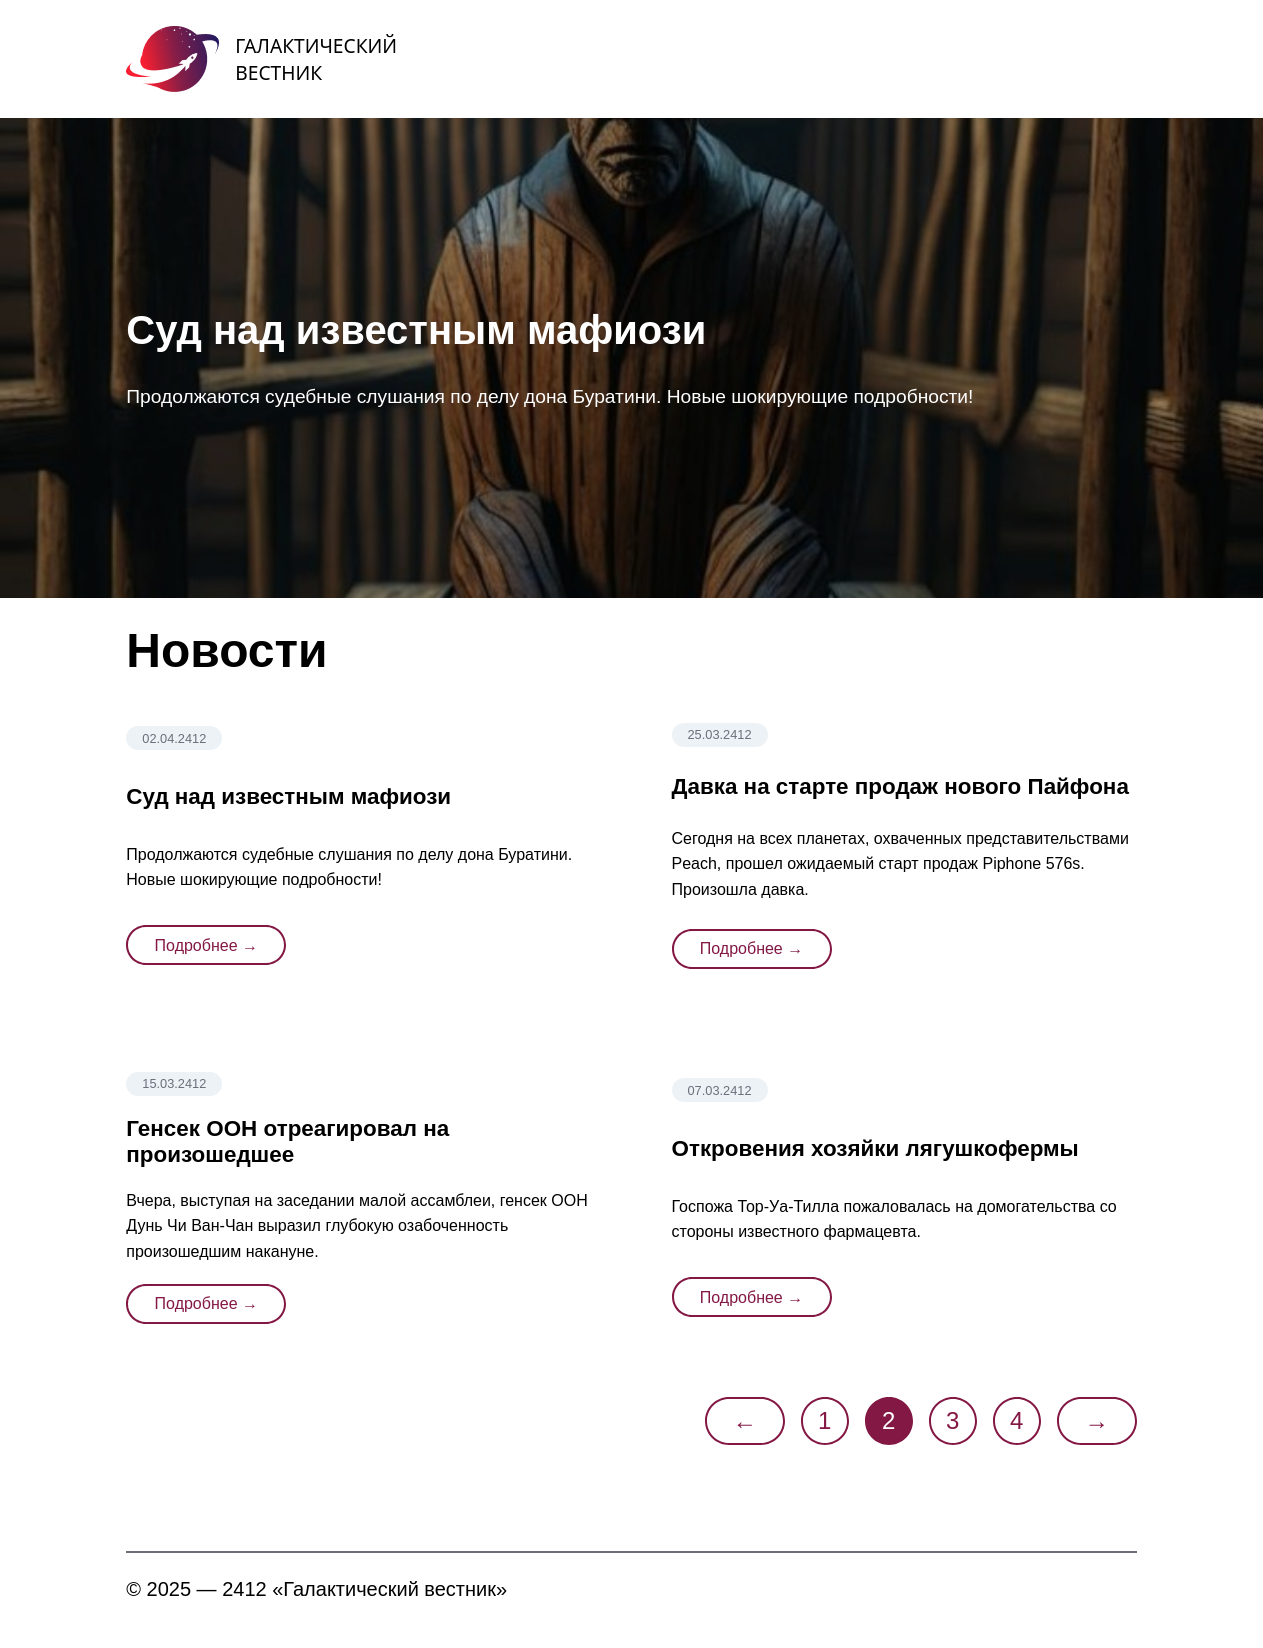
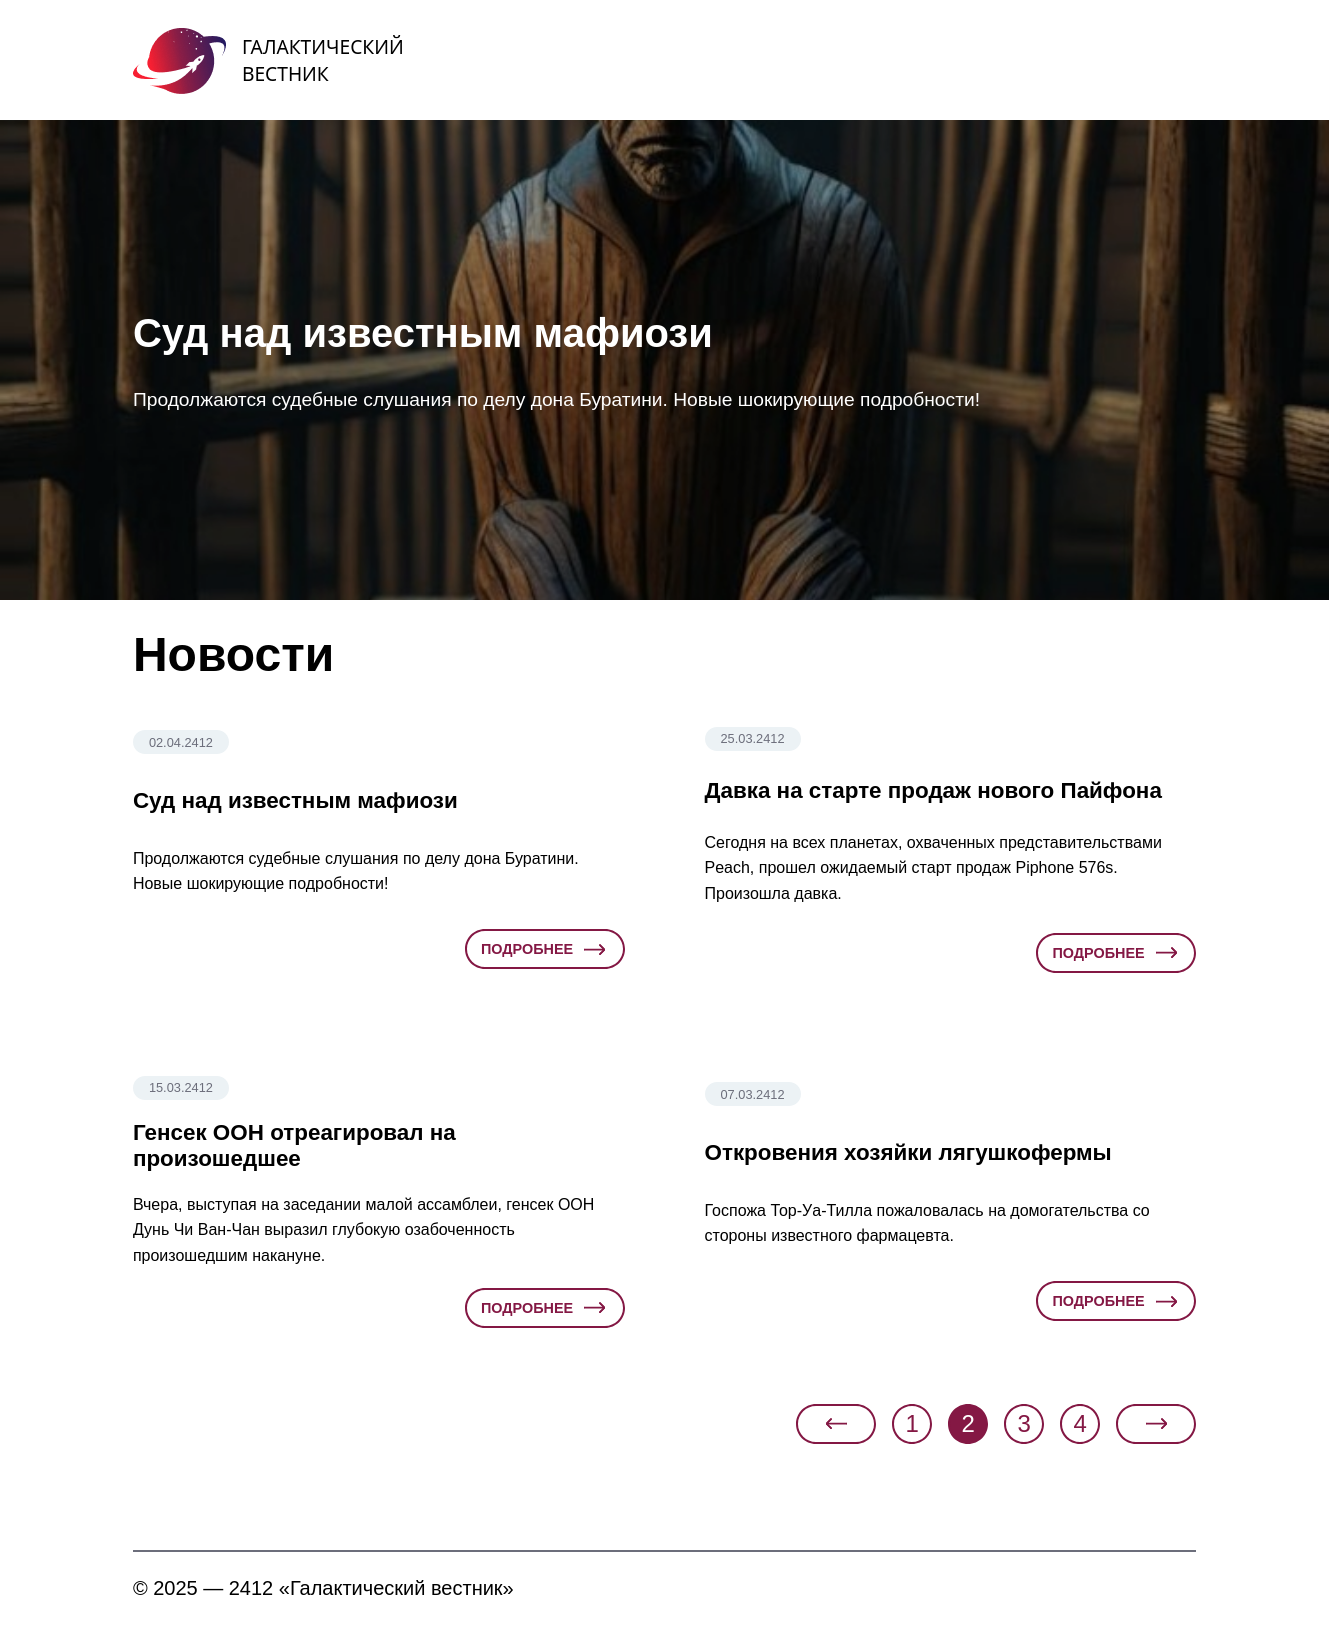
update arrows; update font sizes; update screenshots; made other minor changes;

diff --git a/assets/news.css b/assets/news.css
@@ -30,6 +30,10 @@
         color: white;
     }
 
+    .arrow {
+        color: white;
+    }
+
     .info {
         color: var(--main-color);
     }
@@ -37,9 +41,9 @@
 
 .page_num:hover {
     border: 2px solid var(--main-color);
-    width: 3rem;
-    height: 3rem;
-    border-radius: 3rem;
+    width: 2.5rem;
+    height: 2.5rem;
+    border-radius: 2.5rem;
     text-align: center;
     display: flex;
     align-items: center;
@@ -68,9 +72,9 @@
 .page_num {
     color: var(--main-color);
     border: 2px solid var(--main-color);
-    width: 3rem;
-    height: 3rem;
-    border-radius: 3rem;
+    width: 2.5rem;
+    height: 2.5rem;
+    border-radius: 2.5rem;
     text-align: center;
     display: flex;
     align-items: center;
@@ -83,8 +87,8 @@
     color: var(--main-color);
     border: 2px solid var(--main-color);
     width: 5rem;
-    height: 3rem;
-    border-radius: 3rem;
+    height: 2.5rem;
+    border-radius: 2.5rem;
     text-align: center;
     display: flex;
     align-items: center;
@@ -98,8 +102,8 @@
     background-color: var(--main-color);
     border: 2px solid var(--main-color);
     width: 5rem;
-    height: 3rem;
-    border-radius: 3rem;
+    height: 2.5rem;
+    border-radius: 2.5rem;
     text-align: center;
     display: flex;
     align-items: center;
@@ -109,9 +113,9 @@
 
 .current_page {
     border: 2px solid var(--main-color);
-    width: 3rem;
-    height: 3rem;
-    border-radius: 3rem;
+    width: 2.5rem;
+    height: 2.5rem;
+    border-radius: 2.5rem;
     text-align: center;
     display: flex;
     align-items: center;
@@ -130,8 +134,10 @@
     display: flex;
     justify-content: center;
     align-self: end;
-    flex-direction: column;
     align-items: center;
+    gap: 0.5rem;
+    font-size: 0.9rem;
+    font-weight: 600;
 
     transition: all 1s ease;
 }

diff --git a/assets/post.css b/assets/post.css
@@ -93,14 +93,17 @@
 .back_button {
     color: var(--main-color);
     border: 2px solid var(--main-color);
-    width: 15rem;
-    height: 3rem;
-    border-radius: 3rem;
+    width: 14rem;
+    height: 2.5rem;
+    border-radius: 2.5rem;
     text-align: center;
     display: flex;
     align-items: center;
     justify-content: center;
     margin-top: 1rem;
+    gap: 0.5rem;
+    font-size: 0.9rem;
+    font-weight: 600;
 
     transition: all 1s ease;
 }
@@ -109,8 +112,8 @@
     color: white;
     background-color: var(--main-color);
     border: 2px solid var(--main-color);
-    width: 15rem;
-    height: 3rem;
+    width: 14rem;
+    height: 2.5rem;
     border-radius: 3rem;
     text-align: center;
     display: flex;

diff --git a/assets/styles.css b/assets/styles.css
@@ -90,3 +90,13 @@ html, body {
 .title {
     font-size: 1.2rem;
 }
+
+.arrow {
+    scale: 0.8;
+
+    transition: all 1s ease;
+}
+
+.left {
+    transform: rotate(180deg);
+}

diff --git a/views/news.php b/views/news.php
@@ -11,7 +11,8 @@
     <?php include 'templates/header.php'; ?>
     <?php if (!empty($news)): ?>
         <?php $first = $news[0]; ?>
-        <div class="slider" style="background-image: linear-gradient(rgba(0, 0, 0, 0.3), rgba(0, 0, 0, 0.3)), url('/images/<?= $first['image'] ?>')">
+        <div class="slider"
+             style="background-image: linear-gradient(rgba(0, 0, 0, 0.3), rgba(0, 0, 0, 0.3)), url('/images/<?= $first['image'] ?>')">
 
             <div class="post_slider">
                 <div class="post_title">
@@ -33,9 +34,15 @@
                     <div class="date"><?= date('d.m.Y', strtotime($item['date'])) ?></div>
                     <div class="info"><?= $item['title'] ?></div>
                     <div class="announce"><?= $item['announce'] ?></div>
-                    <div class="info_container">
-                        <a class="more_info" href="/news/<?= $item['id'] ?>">Подробнее →</a>
-                    </div>
+                    <a class="more_info" href="/news/<?= $item['id'] ?>">
+                        <div>ПОДРОБНЕЕ</div>
+                        <svg class="arrow" xmlns="http://www.w3.org/2000/svg" width="27.004" height="13.322"
+                             fill="currentColor">
+                            <path d="M1.02 7.64 1 7.66c-.56 0-1-.44-1-1s.44-1 1-1l.02.02v1.96Zm23.56-.98-4.95-4.95a.99.99 0 0 1 0-1.42c.4-.39 1.02-.39 1.42 0l5.65 5.66c.4.39.4 1.02 0 1.41l-5.65 5.66c-.4.4-1.02.4-1.42 0-.4-.4-.4-1.02 0-1.41l4.95-4.95Z"></path>
+                            <path fill-rule="evenodd"
+                                  d="m23.58 5.66-3.95-3.95a.99.99 0 0 1 0-1.42c.4-.39 1.02-.39 1.42 0l5.65 5.66c.4.39.4 1.02 0 1.41l-5.65 5.66c-.4.4-1.02.4-1.42 0-.4-.4-.4-1.02 0-1.41l3.95-3.95H1c-.56 0-1-.44-1-1s.44-1 1-1h22.58Z"></path>
+                        </svg>
+                    </a>
                 </div>
             <?php endforeach; ?>
         </div>
@@ -43,7 +50,14 @@
     <nav class="pagination">
         <div class="pages">
             <?php if ($current_page > 1): ?>
-                <a class="jump_to_page" href="/?page=1">←</a>
+                <a class="jump_to_page" href="/?page=1">
+                    <svg class="arrow left" xmlns="http://www.w3.org/2000/svg" width="27.004" height="13.322"
+                         fill="currentColor">
+                        <path d="M1.02 7.64 1 7.66c-.56 0-1-.44-1-1s.44-1 1-1l.02.02v1.96Zm23.56-.98-4.95-4.95a.99.99 0 0 1 0-1.42c.4-.39 1.02-.39 1.42 0l5.65 5.66c.4.39.4 1.02 0 1.41l-5.65 5.66c-.4.4-1.02.4-1.42 0-.4-.4-.4-1.02 0-1.41l4.95-4.95Z"></path>
+                        <path fill-rule="evenodd"
+                              d="m23.58 5.66-3.95-3.95a.99.99 0 0 1 0-1.42c.4-.39 1.02-.39 1.42 0l5.65 5.66c.4.39.4 1.02 0 1.41l-5.65 5.66c-.4.4-1.02.4-1.42 0-.4-.4-.4-1.02 0-1.41l3.95-3.95H1c-.56 0-1-.44-1-1s.44-1 1-1h22.58Z"></path>
+                    </svg>
+                </a>
             <?php endif; ?>
 
             <?php
@@ -59,7 +73,14 @@
             <?php endfor; ?>
 
             <?php if ($current_page < $posts_count): ?>
-                <a class="jump_to_page" href="/?page=<?= $posts_count ?>">→</a>
+                <a class="jump_to_page" href="/?page=<?= $posts_count ?>">
+                    <svg class="arrow" xmlns="http://www.w3.org/2000/svg" width="27.004" height="13.322"
+                         fill="currentColor">
+                        <path d="M1.02 7.64 1 7.66c-.56 0-1-.44-1-1s.44-1 1-1l.02.02v1.96Zm23.56-.98-4.95-4.95a.99.99 0 0 1 0-1.42c.4-.39 1.02-.39 1.42 0l5.65 5.66c.4.39.4 1.02 0 1.41l-5.65 5.66c-.4.4-1.02.4-1.42 0-.4-.4-.4-1.02 0-1.41l4.95-4.95Z"></path>
+                        <path fill-rule="evenodd"
+                              d="m23.58 5.66-3.95-3.95a.99.99 0 0 1 0-1.42c.4-.39 1.02-.39 1.42 0l5.65 5.66c.4.39.4 1.02 0 1.41l-5.65 5.66c-.4.4-1.02.4-1.42 0-.4-.4-.4-1.02 0-1.41l3.95-3.95H1c-.56 0-1-.44-1-1s.44-1 1-1h22.58Z"></path>
+                    </svg>
+                </a>
             <?php endif; ?>
         </div>
     </nav>

diff --git a/views/post.php b/views/post.php
@@ -31,7 +31,14 @@
                     </div>
                 </div>
 
-                <a class="back_button" href="/">← НАЗАД К НОВОСТЯМ</a>
+                <a class="back_button" href="/">
+                    <svg class="arrow left" xmlns="http://www.w3.org/2000/svg" width="27.004" height="13.322"
+                         fill="currentColor">
+                        <path d="M1.02 7.64 1 7.66c-.56 0-1-.44-1-1s.44-1 1-1l.02.02v1.96Zm23.56-.98-4.95-4.95a.99.99 0 0 1 0-1.42c.4-.39 1.02-.39 1.42 0l5.65 5.66c.4.39.4 1.02 0 1.41l-5.65 5.66c-.4.4-1.02.4-1.42 0-.4-.4-.4-1.02 0-1.41l4.95-4.95Z"></path>
+                        <path fill-rule="evenodd"
+                              d="m23.58 5.66-3.95-3.95a.99.99 0 0 1 0-1.42c.4-.39 1.02-.39 1.42 0l5.65 5.66c.4.39.4 1.02 0 1.41l-5.65 5.66c-.4.4-1.02.4-1.42 0-.4-.4-.4-1.02 0-1.41l3.95-3.95H1c-.56 0-1-.44-1-1s.44-1 1-1h22.58Z"></path>
+                    </svg>
+                    НАЗАД К НОВОСТЯМ</a>
             </div>
         </div>
     </div>
